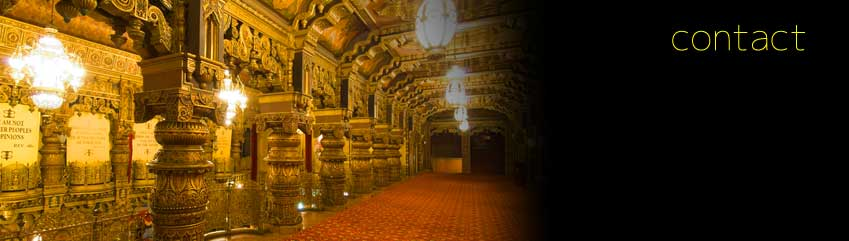
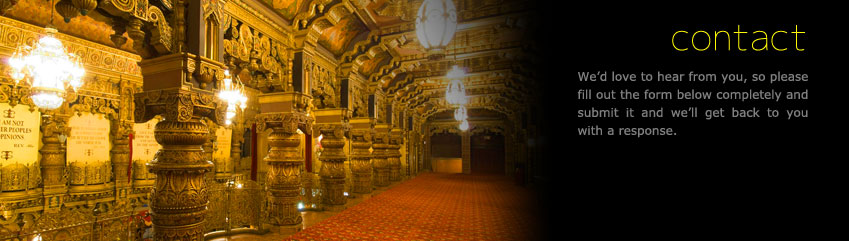
masthead copy added.

diff --git a/contact.html b/contact.html
@@ -4,7 +4,7 @@
 <html xmlns="http://www.w3.org/1999/xhtml" xml:lang="en" lang="en">
 <head>
 	<meta http-equiv="Content-Type" content="text/html; charset=utf-8"/>	
-	<title>United Palace Concerts</title>
+	<title>United Palace Concerts Contact</title>
 	<link rel="stylesheet" href="css/style.css" type="text/css" media="screen" />
 	<link rel="stylesheet" href="css/thickbox.css" type="text/css" media="screen" />
 	<script type="text/javascript" src="http://ajax.googleapis.com/ajax/libs/jquery/1.4.2/jquery.min.js"></script>	
@@ -36,30 +36,7 @@
 		</div>
 		
 		<div id="content-area">
-		
-		<p class="faq">We'd love to hear from you, but we have anticipated some of the most frequently asked questions about United Palace Concerts and we're including them here for you. For everything else fill out the form below completely and submit it and we'll get back to you with a response.</p>
 
-<h2>General Venue FAQs</h2>
-
-<p class="faq">What are your box office hours of operation? <br />
-
-Monday thru Saturday from Noon to 7pm <br />
-
-If I'm buying my tickets at the box office, what types of payment do you accept? <br />
-
-We only accept cash for on site transactions. <br />
-
-Do you have Will Call? Can I pick up my tickets there? <br />
-
-Yes, we have Will Call at the box office. You must pick up your tickets one hour before show time. <br />
-
-Are there any rules regarding the venue? <br />
-
-We are very strict about our no smoking policy. <br />
-
-Do you provide discounts for children? <br />
-
-No discounts are available for children. Children age five and older require a ticket (not a children's show). </p><br />
 			<script type="text/javascript">var host = (("https:" == document.location.protocol) ? "https://secure." : "http://");document.write(unescape("%3Cscript src='" + host + "wufoo.com/scripts/embed/form.js' type='text/javascript'%3E%3C/script%3E"));</script>
 			
 			<script type="text/javascript">

diff --git a/events.html b/events.html
@@ -4,7 +4,7 @@
 <html xmlns="http://www.w3.org/1999/xhtml" xml:lang="en" lang="en">
 <head>
 	<meta http-equiv="Content-Type" content="text/html; charset=utf-8"/>	
-	<title>United Palace Concerts</title>
+	<title>United Palace Concerts Events Calendar</title>
 	<link rel="stylesheet" href="css/style.css" type="text/css" media="screen" />
 	<script type="text/javascript" src="http://ajax.googleapis.com/ajax/libs/jquery/1.4.2/jquery.min.js"></script>	
 	<meta name="description" content="The official website and concert calendar for the United Palace Theater in Washington Heights, New York.  Information about Allman Brothers, Mark Knopfler, Elvis Costello shows." />

diff --git a/seating.html b/seating.html
@@ -4,7 +4,7 @@
 <html xmlns="http://www.w3.org/1999/xhtml" xml:lang="en" lang="en">
 <head>
 	<meta http-equiv="Content-Type" content="text/html; charset=utf-8"/>	
-	<title>United Palace Concerts</title>
+	<title>United Palace Concerts Seating Chart</title>
 	<link rel="stylesheet" href="css/style.css" type="text/css" media="screen" />
 	<script type="text/javascript" src="http://ajax.googleapis.com/ajax/libs/jquery/1.4.2/jquery.min.js"></script>	
 	<meta name="description" content="The official website and concert calendar for the United Palace Theater in Washington Heights, New York.  Information about Allman Brothers, Mark Knopfler, Elvis Costello shows." />

diff --git a/directions.html b/directions.html
@@ -4,7 +4,7 @@
 <html xmlns="http://www.w3.org/1999/xhtml" xml:lang="en" lang="en">
 <head>
 	<meta http-equiv="Content-Type" content="text/html; charset=utf-8"/>	
-	<title>United Palace Concerts</title>
+	<title>United Palace Concerts Directions</title>
 	<link rel="stylesheet" href="css/style.css" type="text/css" media="screen" />
 	<script type="text/javascript" src="http://ajax.googleapis.com/ajax/libs/jquery/1.4.2/jquery.min.js"></script>	
 	<meta name="description" content="The official website and concert calendar for the United Palace Theater in Washington Heights, New York.  Information about Allman Brothers, Mark Knopfler, Elvis Costello shows." />
